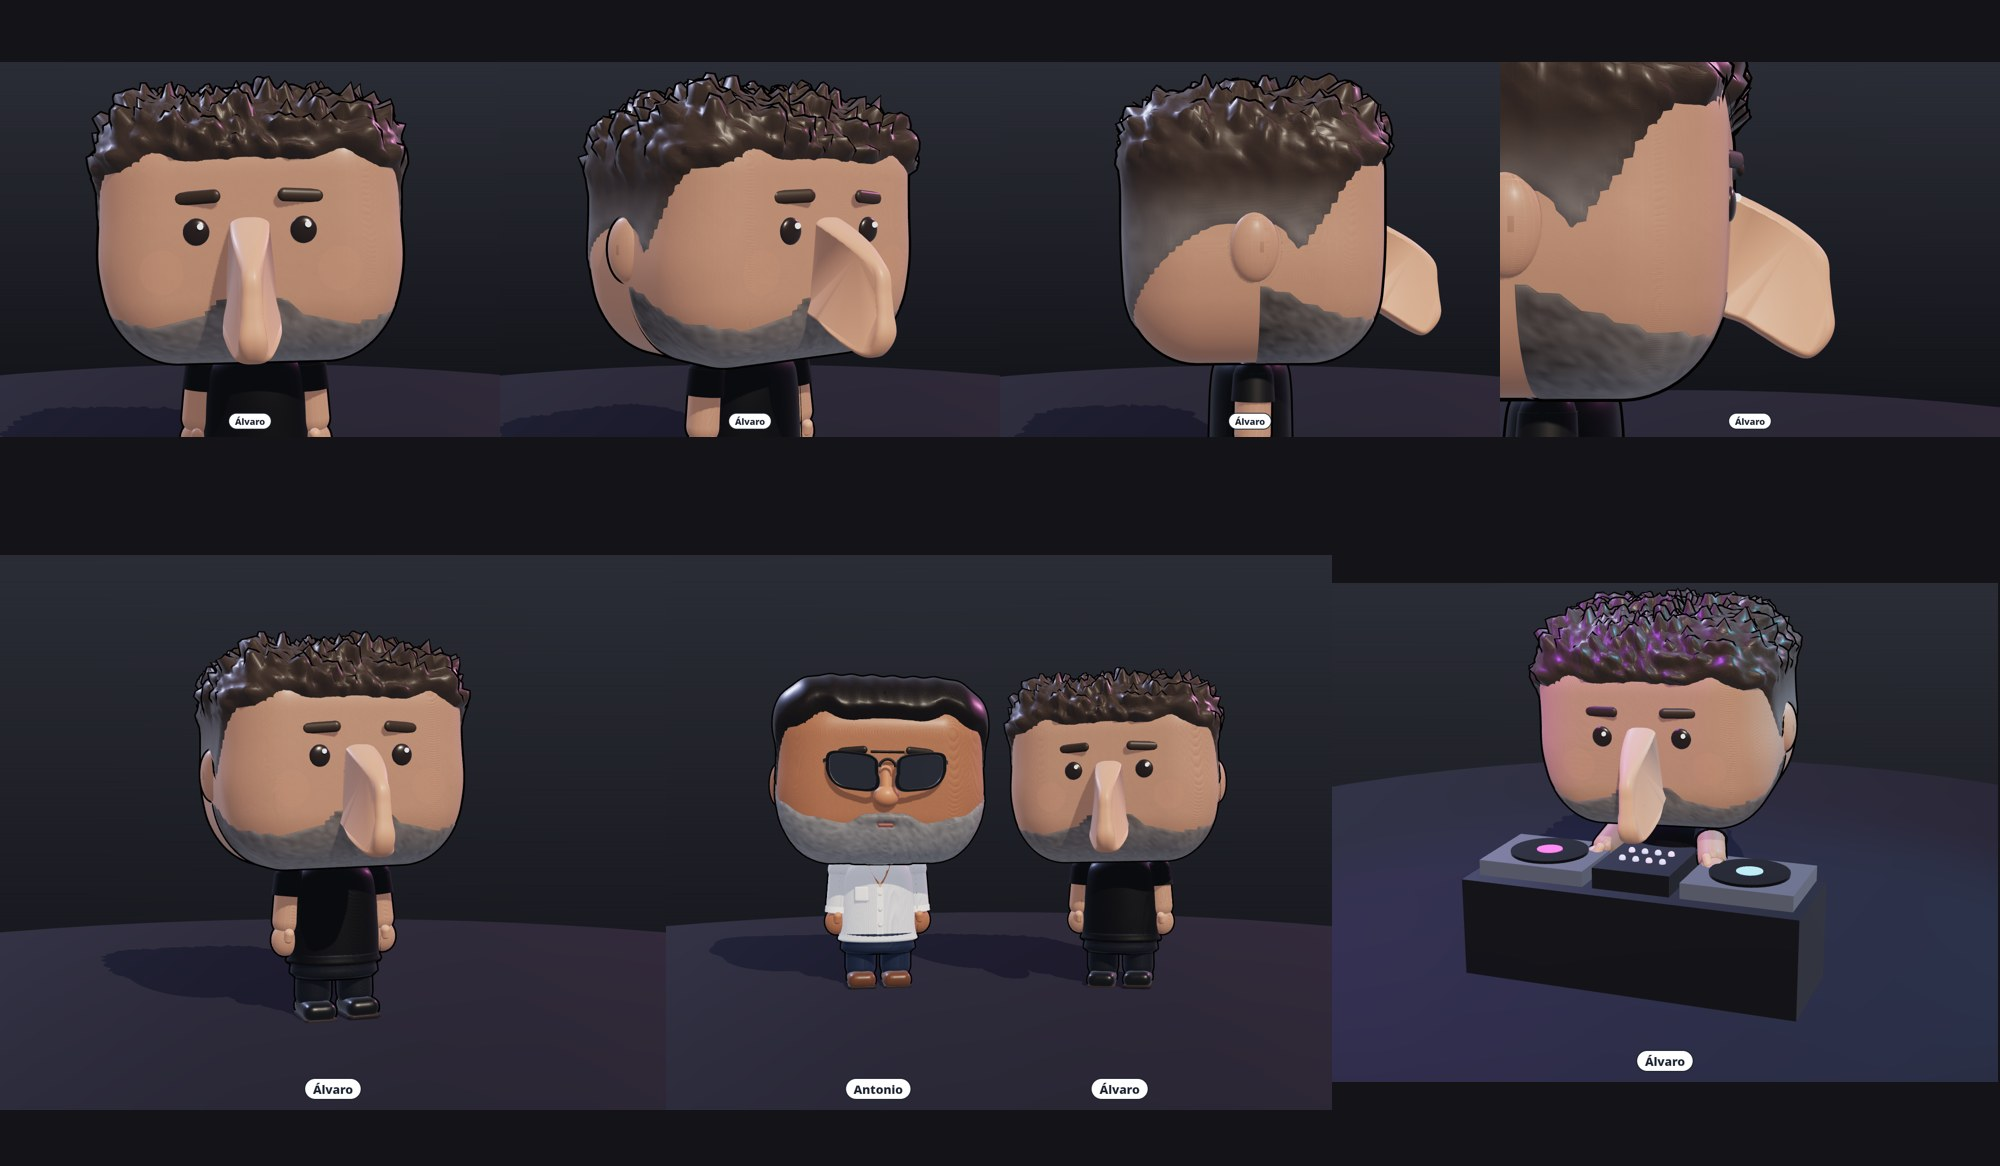
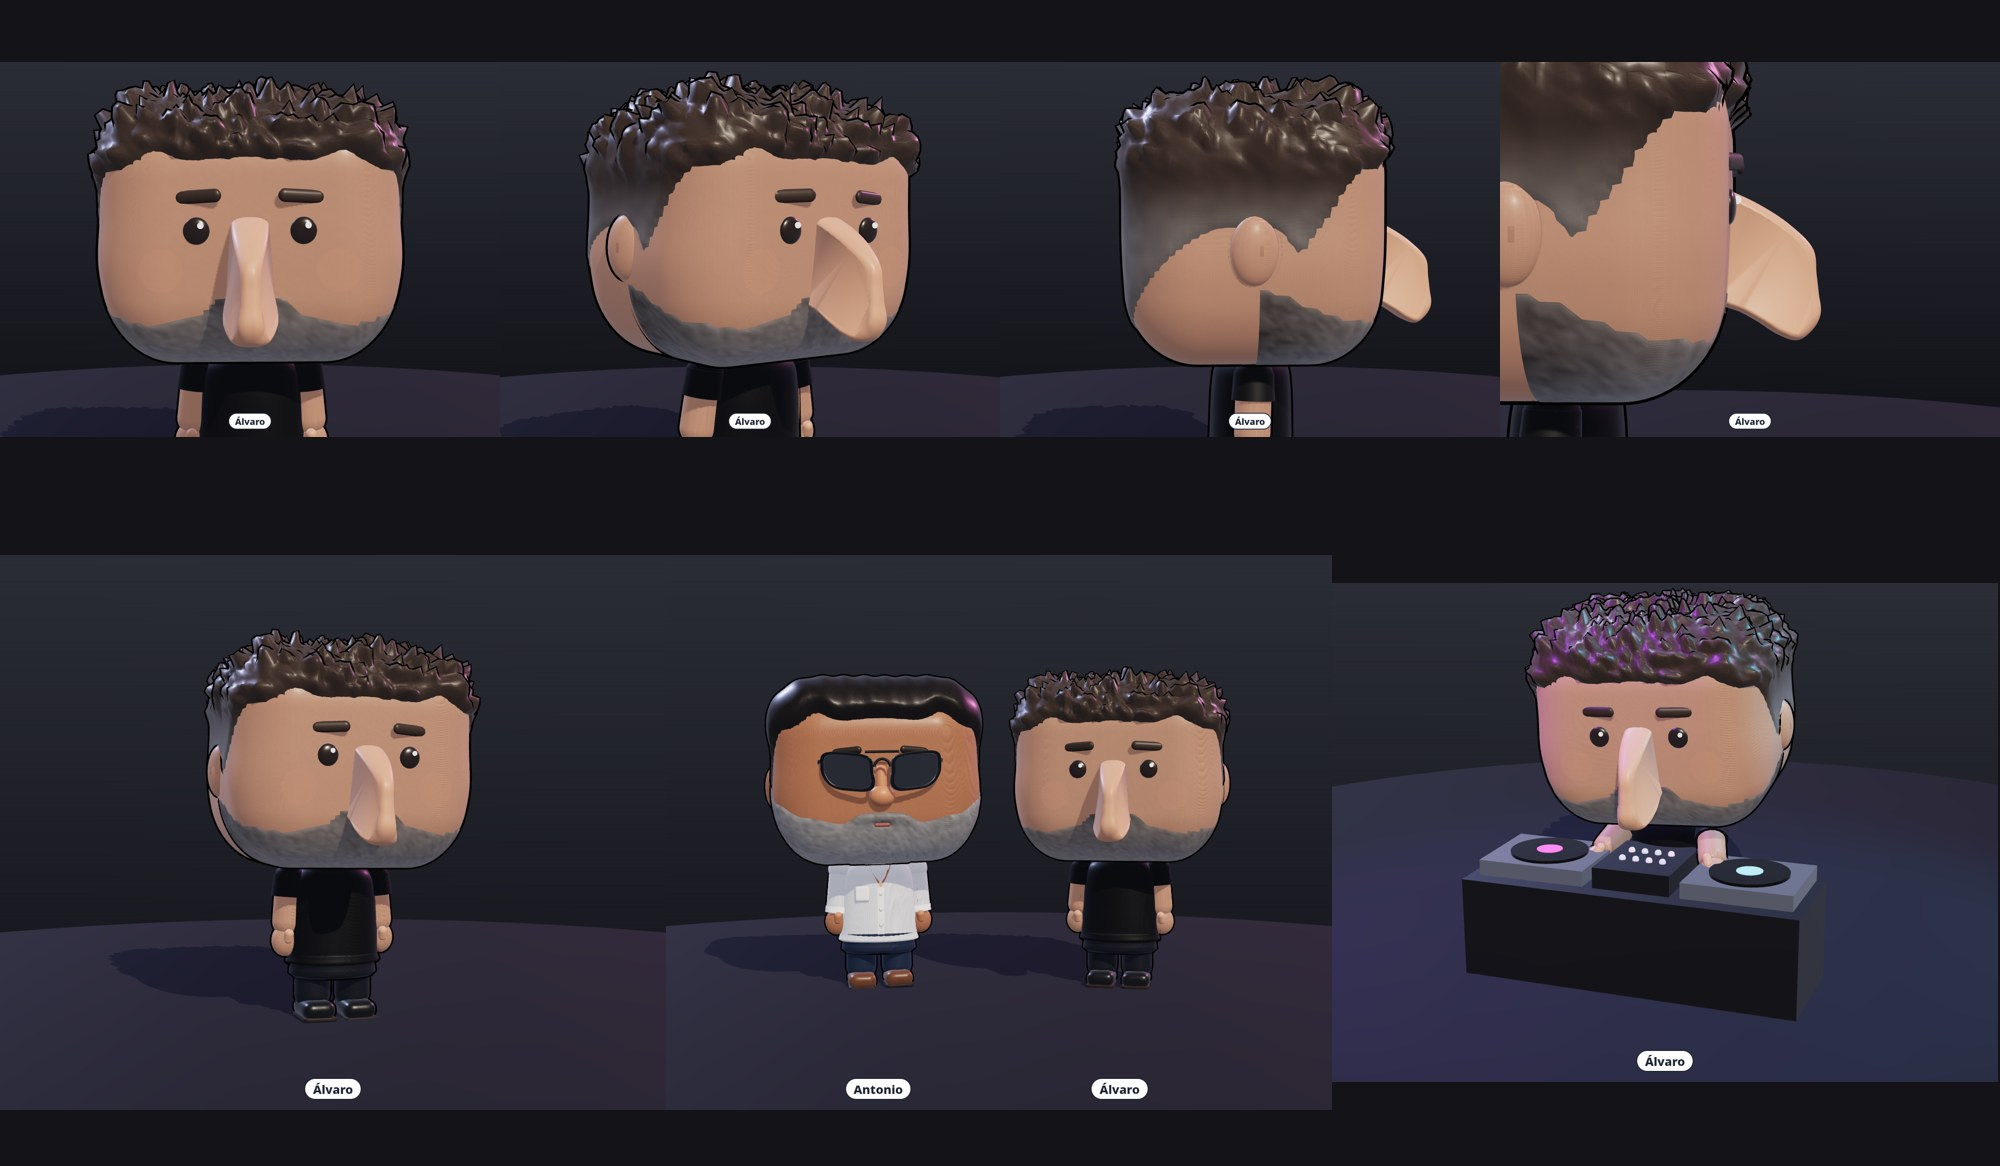
Escalera tras la barra con cuartillo; nariz de Álvaro intermedia

diff --git a/index.html b/index.html
@@ -733,7 +733,7 @@ const CFG = {
   brows: { color: '#3a2b21', thick: 1.2, tilt: -0.05, y: 0.29 },
   eyes: { color: '#2a1a10', size: 0.05, squint: 0.32 },
   mouth: { type: 'lip', color: '#9a5a4e' },
-  nose: { size: 1.3, big: { len: 2.2, w: 1.8, hump: 1.3, hook: 2.9, h: 1.36 } },
+  nose: { size: 1.25, big: { len: 2.08, w: 1.71, hump: 1.2, hook: 2.2, h: 1.24 } },
   shirt: { type: 'tshirt', color: '#141416', sleeves: 'short' },
   pants: { color: '#22252c' }, shoes: { color: '#121212' },
 };
@@ -832,7 +832,7 @@ const dyn = (mesh, parent = scene) => { parent.add(mesh); return mesh; };
 // ---------- PLANO (px del plano 1 → m: X=(px-249)/32-11.44, Z=(py-360)/32) ----------
 const XL = -11.44, XR = 11.44, ZB = -10.56, H = 3.6, T = 0.22;
 const P = { banoChicos: [-11.44, -10.56, -7.6, -8.22], pasillo: [-11.44, -8.22, -6.56, -7.22], banoChicas: [-11.44, -7.22, -8.06, -4.53], guardarropa: [-8.06, -7.22, -6.56, -4.53],
-  notch: [-5.19, -10.56, -3.13, -9.25], botellas: [-3.13, -10.56, 6.81, -9.69], camareros: [-3.13, -9.69, 6.81, -8.28], barra: [-4.25, -8.28, 6.81, -7.34], columna: [-2.31, -6.69, -1.31, -5.69],
+  notch: [-5.19, -10.56, -3.13, -9.25], botellas: [-1.7, -10.56, 6.81, -9.69], camareros: [-3.13, -9.69, 6.81, -8.28], barra: [-4.25, -8.28, 6.81, -7.34], columna: [-2.31, -6.69, -1.31, -5.69],
   dj: [-6.56, -5.19, -3.97, -1.88], escenario: [7.81, -7.34, 11.44, 0], backstage: [6.81, -10.56, 11.44, -7.34], tabique: [-0.25, -1.72, 3.4, -1.25], puerta: [0.53, 2.97], crisIzq: [-6.0, -0.66], crisDer: [3.84, 10.06] };
 const INT = [{ x0: -6.56, z0: -10.56, x1: 11.44, z1: 0 }, { x0: -11.44, z0: -10.56, x1: -6.56, z1: -4.53 }]; // zonas interiores (para cámara/música)
 // --- suelos
@@ -947,8 +947,23 @@ sign('ENTRADA', -0.6, -1.05, Math.PI / 2, 0.8); sign('SALIDA', 3.75, -1.05, -Mat
 
 const hiTable = (x, z, top = M.darkwood) => { BC(x - 0.4, 1.05, z - 0.4, x + 0.4, 1.1, z + 0.4, top); CYL(0.04, 1.05, M.frame, x, 0, z, 8); CYL(0.25, 0.03, M.frame, x, 0, z, 16); };
 // (sin mesas altas ni taburetes en el interior)
-// escalera de caracol amarilla (decorativa, junto a la muesca)
-{ const x = -6.4, z = -9.6; CYL(0.06, H, M.yellow, x, 0, z, 10); for (let i = 0; i < 14; i++) { const a = i * 0.5, y = 0.2 + i * 0.24; const st = new THREE.BoxGeometry(0.75, 0.04, 0.28); st.translate(0.4, 0, 0); addG(st, M.yellow, x, y, z, a); const pole = new THREE.CylinderGeometry(0.012, 0.012, 0.9, 5); pole.translate(0.76, 0.45, 0); addG(pole, M.yellow, x, y, z, a); } col(x - 0.85, z - 0.85, x + 0.85, z + 0.85); }
+// escalera de caracol amarilla DETRÁS de la barra (extremo izq. de la zona de camareros, contra la pared del fondo) → sube a un cuartillo/altillo
+{ const x = -2.42, z = -9.05, FL = 2.6, ST = 11; CYL(0.05, FL + 1.0, M.yellow, x, 0, z, 10);
+  for (let i = 0; i < ST; i++) { const a = i * 0.55, y = 0.2 + i * (FL - 0.2) / (ST - 1); const st = new THREE.BoxGeometry(0.62, 0.04, 0.26); st.translate(0.33, 0, 0); addG(st, M.yellow, x, y, z, a); const pole = new THREE.CylinderGeometry(0.012, 0.012, 0.9, 5); pole.translate(0.63, 0.45, 0); addG(pole, M.yellow, x, y, z, a); }
+  col(x - 0.7, z - 0.7, x + 0.7, z + 0.7);
+  // pared del fondo detrás de la escalera (el botellero empieza a su derecha)
+  B(-3.13, 0, ZB + 0.01, -1.7, H, ZB + 0.03, M.corr);
+  // cuartillo: ~2.5 x 2 m, suelo a 2.6-2.7 m, sobre el extremo izquierdo del botellero; hueco de llegada de la escalera con barandilla
+  const X0 = -3.13, X1 = -0.63, Z0 = ZB, Z1 = ZB + 2.0, HX = -1.72, HZ = z - 0.62, F0 = FL, F1 = FL + 0.1, ind = M.frame;
+  B(HX, F0, Z0, X1, F1, Z1, M.black); B(X0, F0, Z0, HX, F1, HZ, M.black); // forjado (con hueco sobre la escalera)
+  B(X0, F0 - 0.14, Z1 - 0.06, X1, F0, Z1, ind); B(X1 - 0.06, F0 - 0.14, Z0, X1, F0, Z1, ind); // vigas IPN vistas
+  for (const xx of [X1 - 0.05]) B(xx - 0.05, 0.9, Z1 - 0.1, xx + 0.05, F0 - 0.14, Z1, ind); // pilar metálico sobre el mueble
+  B(HX, F1, Z1 - 0.05, X1, H, Z1, M.corr); B(X1 - 0.05, F1, Z0, X1, H, Z1, M.corr); // paredes de chapa ondulada (frente y lateral)
+  B(HX + 0.25, F1 + 0.25, Z1 - 0.07, HX + 0.95, F1 + 0.75, Z1 - 0.04, std({ color: '#2a2018', emissive: '#ffb860', emissiveIntensity: 0.6, roughness: 0.3 })); // ventanuco con luz
+  B(HX - 0.02, F1, Z1 - 0.05, HX + 0.03, H, Z1, ind); // marco
+  // barandilla negra industrial alrededor del hueco
+  for (const [ax, az, bx, bz] of [[X0, Z1 - 0.03, HX, Z1 - 0.03]]) { B(ax, F1 + 0.86, az - 0.02, bx, F1 + 0.9, az + 0.02, ind); B(ax, F1 + 0.42, az - 0.01, bx, F1 + 0.45, az + 0.01, ind); for (let t = 0; t <= 4; t++) { const px = ax + (bx - ax) * t / 4; B(px - 0.02, F1, az - 0.02, px + 0.02, F1 + 0.9, az + 0.02, ind); } }
+  B(HX - 0.02, F1 + 0.86, HZ, HX + 0.02, F1 + 0.9, Z1, ind); }
 // carteles
 const posters = [];
 const poster = (draw, w, h, x, y, z, ry, emiss = false) => { const t = textTex(256, Math.round(256 * h / w), draw); const m = new THREE.Mesh(new THREE.PlaneGeometry(w, h), emiss ? new THREE.MeshBasicMaterial({ map: t }) : std({ map: t, roughness: 0.6 })); m.position.set(x, y, z); m.rotation.y = ry; scene.add(m); posters.push(m); return m; };
